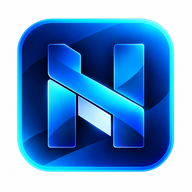
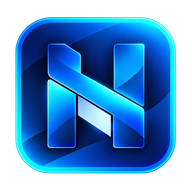
Add files via upload

diff --git a/style.css b/style.css
@@ -7613,3 +7613,188 @@ textarea::placeholder, input::placeholder {
         animation: none !important;
     }
 }
+
+
+/* ============================================================
+   V11.1 — TRANSPARENT LOGO + HERO LAYOUT + SIDEBAR RELIABILITY
+   ============================================================ */
+
+/* Use the transparent HASSOU mark directly. Avoid a white/circular frame
+   so the identity works naturally in both dark and light themes. */
+.sidebar-profile .avatar {
+    width: 90px;
+    height: 90px;
+    margin-bottom: 10px;
+    overflow: visible;
+    border: 0;
+    border-radius: 0;
+    background: transparent;
+    box-shadow: none;
+}
+
+.sidebar-profile .avatar:hover {
+    transform: translateY(-3px) scale(1.035);
+    box-shadow: none;
+}
+
+.sidebar-profile .avatar img {
+    width: 100%;
+    height: 100%;
+    object-fit: contain;
+    border-radius: 0;
+    background: transparent;
+    filter: drop-shadow(0 10px 20px rgba(15, 94, 220, .20)) drop-shadow(0 0 18px rgba(24, 221, 245, .12));
+}
+
+[data-theme="light"] .sidebar-profile .avatar img {
+    filter: drop-shadow(0 10px 18px rgba(12, 70, 155, .14));
+}
+
+.site-intro img {
+    width: 118px;
+    height: 118px;
+    border-radius: 0;
+    object-fit: contain;
+    background: transparent;
+    filter: drop-shadow(0 14px 28px rgba(15, 102, 228, .26)) drop-shadow(0 0 22px rgba(15, 230, 247, .18));
+}
+
+.footer-brand-mark,
+.case-page-brand img {
+    object-fit: contain;
+    background: transparent;
+}
+
+/* Desktop: lock the hero to the intended two-column composition.
+   The visual stays beside the content rather than dropping underneath. */
+@media (min-width: 1181px) {
+    .hero-container {
+        display: grid;
+        grid-template-columns: minmax(0, 1.08fr) minmax(400px, .92fr);
+        grid-template-areas: "copy visual";
+        align-items: center;
+        gap: clamp(34px, 4.5vw, 72px);
+    }
+
+    .hero-content {
+        grid-area: copy;
+        min-width: 0;
+    }
+
+    .hero-image {
+        grid-area: visual;
+        align-self: center;
+        min-width: 0;
+    }
+
+    .hero-image-wrapper {
+        width: min(100%, 560px);
+        margin-inline: auto;
+    }
+}
+
+/* Tablet/mobile: stack cleanly with the visual first so it never becomes
+   an orphaned image at the end of a very long hero block. */
+@media (max-width: 1180px) {
+    .hero-container {
+        display: grid;
+        grid-template-columns: 1fr;
+        grid-template-areas:
+            "visual"
+            "copy";
+        gap: 28px;
+    }
+
+    .hero-image { grid-area: visual; }
+    .hero-content { grid-area: copy; }
+
+    .hero-image-wrapper {
+        width: min(100%, 500px);
+        margin-inline: auto;
+    }
+}
+
+/* Keep the large hero artwork contained and visually balanced. */
+#hero .hero-avatar-img {
+    width: 84%;
+    height: 84%;
+    object-fit: cover;
+    object-position: center;
+    border-radius: 18%;
+}
+
+.hero-brand-seal {
+    display: none;
+}
+
+/* Sidebar usability: it can scroll independently on short screens and
+   active links remain visible as the page moves. */
+.sidebar {
+    overscroll-behavior: contain;
+    scrollbar-gutter: stable;
+}
+
+.sidebar-nav a {
+    min-height: 42px;
+}
+
+.sidebar-nav a:focus-visible,
+.sidebar-collapse:focus-visible,
+.sidebar-command:focus-visible,
+.sidebar-footer button:focus-visible,
+.sidebar-footer-action:focus-visible,
+.mobile-toggle:focus-visible {
+    outline: 3px solid color-mix(in srgb, var(--accent-cyan) 65%, transparent);
+    outline-offset: 3px;
+}
+
+/* Stronger light-mode states for navigation and controls. */
+[data-theme="light"] .sidebar-nav a:hover,
+[data-theme="light"] .sidebar-nav a:focus-visible {
+    background: rgba(14, 104, 224, .07);
+    color: #061a38;
+}
+
+[data-theme="light"] .sidebar-nav a.active {
+    background: linear-gradient(90deg, rgba(14, 104, 224, .13), rgba(15, 230, 247, .055));
+    color: #061a38;
+}
+
+[data-theme="light"] .sidebar-profile h2,
+[data-theme="light"] .sidebar-availability strong,
+[data-theme="light"] .sidebar-status-copy strong,
+[data-theme="light"] .sidebar-project-copy strong {
+    color: #061a38;
+}
+
+/* Prevent floating controls from covering important form/footer content. */
+@media (min-width: 981px) {
+    .quick-contact-button,
+    .scroll-arrow {
+        right: max(22px, env(safe-area-inset-right));
+    }
+}
+
+@media (max-width: 980px) {
+    .sidebar {
+        width: min(88vw, 330px);
+        max-width: 330px;
+    }
+
+    .sidebar-profile .avatar {
+        width: 82px;
+        height: 82px;
+    }
+}
+
+@media (max-width: 560px) {
+    .hero-image-wrapper {
+        width: min(100%, 390px);
+    }
+
+    #hero .hero-avatar-img {
+        width: 88%;
+        height: 88%;
+        border-radius: 16%;
+    }
+}

diff --git a/script.js b/script.js
@@ -177,13 +177,36 @@ function initSamePageNavigation() {
         });
     });
 
-    window.addEventListener('popstate', () => {
-        const id = location.hash.slice(1);
-        const target = id && document.getElementById(id);
+    const syncFromLocation = ({ scroll = true, behavior = 'auto' } = {}) => {
+        const id = location.hash.slice(1) || 'hero';
+        const target = document.getElementById(id);
         if (!target) return;
         setSidebarState(target.id);
-        target.scrollIntoView({ behavior: prefersReducedMotion.matches ? 'auto' : 'smooth', block: 'start' });
+
+        const activeSidebarLink = qs(`.sidebar-nav a[href="#${id}"]`) || qs('.sidebar-nav a.active');
+        activeSidebarLink?.scrollIntoView({ block: 'nearest', behavior: 'auto' });
+
+        if (scroll) target.scrollIntoView({ behavior, block: 'start' });
+    };
+
+    window.addEventListener('popstate', () => {
+        syncFromLocation({ scroll: true, behavior: prefersReducedMotion.matches ? 'auto' : 'smooth' });
     });
+
+    window.addEventListener('hashchange', () => {
+        syncFromLocation({ scroll: true, behavior: prefersReducedMotion.matches ? 'auto' : 'smooth' });
+    });
+
+    // Re-apply the initial hash after layout, intro removal, fonts and images settle.
+    // This prevents a URL such as #problems from showing the hero while the sidebar
+    // highlights a different section.
+    const restoreInitialHash = () => {
+        window.requestAnimationFrame(() => {
+            window.requestAnimationFrame(() => syncFromLocation({ scroll: Boolean(location.hash), behavior: 'auto' }));
+        });
+    };
+    if (document.readyState === 'complete') restoreInitialHash();
+    else window.addEventListener('load', restoreInitialHash, { once: true });
 }
 
 /* ============================================================
@@ -563,6 +586,7 @@ function initScrollSpy() {
             else link.removeAttribute('aria-current');
         });
         if (currentLabel) currentLabel.textContent = activeLink.dataset.label || activeLink.textContent.trim() || navId;
+        activeLink.scrollIntoView({ block: 'nearest', behavior: 'auto' });
     };
 
     if (!('IntersectionObserver' in window)) {

diff --git a/index.html b/index.html
@@ -61,7 +61,7 @@
       ]
     }
     </script>
-<meta content="HASSOU TechGroup Solutions Portfolio V9 · Brand Identity Refresh" name="generator"/></head>
+<meta content="HASSOU TechGroup Solutions Portfolio V11.1 · Layout & Navigation Fix" name="generator"/></head>
 <body data-contact-email="tgroupsolutions.dev2026@gmail.com" data-formspree-id="mzepkbgw">
 <div aria-hidden="true" class="site-intro" id="siteIntro">
 <div class="intro-orbit intro-orbit-1"></div>
@@ -181,6 +181,7 @@
 <div class="hero-mini-card">
 <span class="hero-mini-icon"><i class="fas fa-rocket" aria-hidden="true"></i></span>
 <div><strong>Launch + Support</strong><span>Deployment guidance, refinements, and enhancement support help the system stay useful after release.</span></div>
+</div>
 </div>
 </div>
 <div aria-label="HASSOU TechGroup Solutions development visualization" class="hero-image">

diff --git a/sw.js b/sw.js
@@ -1,4 +1,4 @@
-const CACHE_NAME = 'hassou-portfolio-v11-hero-motion';
+const CACHE_NAME = 'hassou-portfolio-v11-1-layout-nav-fix';
 const CORE_ASSETS = [
   './',
   './index.html',
